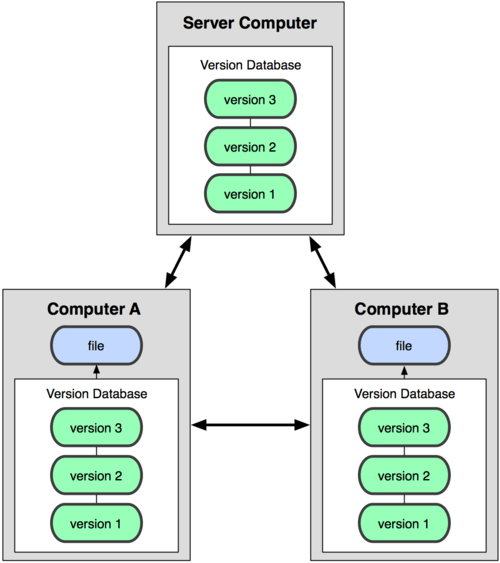
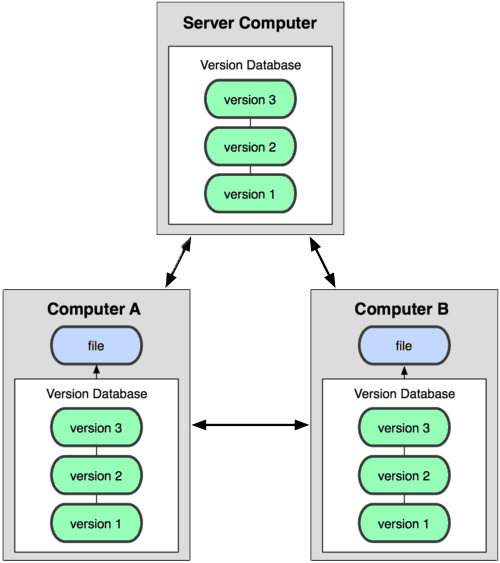
Much work on day3.

diff --git a/day3/index.html b/day3/index.html
@@ -82,6 +82,15 @@
 						<ol>
 							<li class="active">Version control; what, how and why?</li>
 							<li>
+								GIT concepts
+								<ul>
+									<li>Commits</li>
+									<li>Tree</li>
+									<li>Branches</li>
+									<li>Merges</li>
+								</ul>
+							</li>
+							<li>
 								GITting started
 								<ul>
 									<li>Creating a project/repository</li>
@@ -92,18 +101,8 @@
 									<li>Cloning from existing repository</li>
 								</ul>
 							</li>
+							<li>Hosting repositories</li>
 							<li>Graphical utils</li>
-							<li>
-								GIT concepts
-								<ul>
-									<li>Tree</li>
-									<li>Branches</li>
-									<li>Commits</li>
-									<li>Forks</li>
-									<li>Merges</li>
-									<li>Hashes</li>
-								</ul>
-							</li>
 						</ol>
 					</div>
 				</section>
@@ -207,7 +206,13 @@ $ git log sample.tex
 				<section>
 					<h2>GIT (and Mercurial, Bazaar)</h2>
 					<h3>Complete history on <em>your</em> computer.</h3>
-					<img width="60%" src="images/versions.png">
+					<img style="border: none;" width="50%" src="images/versions.png">
+				</section>
+
+				<section>
+					<h2>GIT (and Mercurial, Bazaar)</h2>
+					<h3>Version database synchronized across repositories</h3>
+					<img style="border: none;" width="50%" src="images/synchronization.png">
 				</section>
 
 				<section>
@@ -219,8 +224,6 @@ $ git log sample.tex
 						<li>GIT-protocol over SSH</li>
 						<li>No server needed</li>
 					</ul>
-
-					<img width="60%" src="images/synchronization.png">
 				</section>
 
 				<section data-background-image="images/git_vs_svn.jpg" data-background-size="contain"></section>
@@ -235,7 +238,155 @@ $ git log sample.tex
 					</ul>
 				</section>
 
-				<section id="getting-started">
+				<section>
+					<h2>
+						<span>Program - day 3</span>
+						<br>
+					</h2>
+					<div>
+						<ol>
+							<li>Version control; what, how and why?</li>
+							<li class="active">
+								GIT concepts
+								<ul>
+									<li>Commits</li>
+									<li>Branches</li>
+									<li>Merges</li>
+								</ul>
+							</li>
+							<li>
+								GITting started
+								<ul>
+									<li>Creating a project/repository</li>
+									<li>Committing changes</li>
+									<li>Viewing history</li>
+									<li>Reverting changes</li>
+									<li>Synchronizing changes</li>
+									<li>Cloning from existing repository</li>
+								</ul>
+							</li>
+							<li>Hosting repositories</li>
+							<li>Graphical utils</li>
+						</ol>
+					</div>
+				</section>
+
+				<section>
+					<h2>GIT Concepts</h2>
+					<h3>Commits</h3>
+
+					<ul>
+						<li>Atomic set of changes</li>
+						<li>Requires description (commit message)</li>
+						<li>Generates unique hash (code) for reference</li>
+					</ul>
+				</section>
+
+				<section>
+					<h2>GIT Concepts</h2>
+					<h3>Commits</h3>
+
+					<p>Make changes, stage files (<code>git add</code>), make commit.</p>
+
+					<img src="images/stage_commit.png" alt="Commits">
+				</section>
+
+				<section>
+					<h2>GIT Concepts</h2>
+					<h3>Commits</h3>
+
+					<p>Commits refer to snapshots of your code, connected in a tree.</p>
+
+					<img src="images/commits2.png" alt="Commits">
+				</section>
+
+				<section>
+					<h2>GIT Concepts</h2>
+					<h3>Branches</h3>
+
+					<p>Making changes from different starting points.</p>
+
+					<img width="70%" src="images/branches.png" alt="Branches">
+
+				</section>
+
+				<section>
+					<h2>GIT Concepts</h2>
+					<h3>Merges</h3>
+
+					<p>Merges bring branches back together.</p>
+
+					<img width="80%" src="images/merging.png" alt="Merging">
+
+				</section>
+
+				<section>
+					<h2>GIT Concepts</h2>
+					<h3>Merges</h3>
+
+					<p>
+						Many people working simultaneously <br>on the same project: <em>no problem</em>!
+					</p>
+
+				</section>
+
+				<section>
+					<h2>Merges</h2>
+					<img width="80%" src="images/merging2.png" alt="Merging">
+
+				</section>
+
+				<section>
+					<h2>GIT Concepts</h2>
+					<h3>Merge conflicts</h3>
+
+					<p>
+						Two people modified the same <em>part</em> of the
+						same <em>file</em>.
+					</p>
+					<p>
+						Solution: manually edit conflicting files, stage them
+						and commit.
+					</p>
+
+					<p>Reference: <a href="http://githowto.com/resolving_conflicts">Git How To on Merge Conflicts</a></p>
+				</section>
+
+				<section>
+					<h2>
+						<span>Program - day 3</span>
+						<br>
+					</h2>
+					<div>
+						<ol>
+							<li>Version control; what, how and why?</li>
+							<li>
+								GIT concepts
+								<ul>
+									<li>Commits</li>
+									<li>Tree</li>
+									<li>Branches</li>
+									<li>Merges</li>
+								</ul>
+							</li>
+							<li class="active" id="getting-started">
+								GITting started
+								<ul>
+									<li>Creating a project/repository</li>
+									<li>Committing changes</li>
+									<li>Viewing history</li>
+									<li>Reverting changes</li>
+									<li>Sharing your repo</li>
+									<li>Cloning from existing repository</li>
+								</ul>
+							</li>
+							<li>Hosting repositories</li>
+							<li>Graphical utils</li>
+						</ol>
+					</div>
+				</section>
+
+				<section>
 					<h2>GITting started</h2>
 					<h3>Creating a project/repository</h3>
 					<pre><code class="bash" data-trim>
